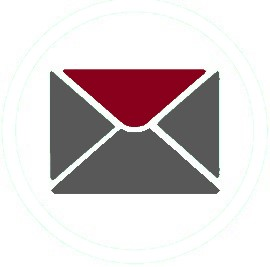
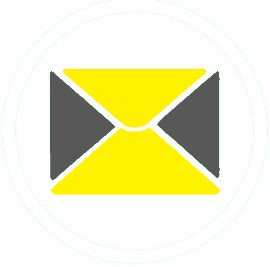
refined message function by adding indicator for student

Changed region(s): [[0.1778, 0.2397, 0.8296, 0.7491]]

diff --git a/SRC/src/yatuedx/root/assets/js/pages/jsClassRoomTeacher.js b/SRC/src/yatuedx/root/assets/js/pages/jsClassRoomTeacher.js
@@ -46,8 +46,8 @@ const TA_STUDENT_CONSOLE_PREFIX = "yt_stdf_inpt_ta_for_";
 const TA_STUDENT_CONSOLE_CONTAINER_PREFIX = "yt_stdt_inpt_ta_ctnr_div_for_";
 const BTN_CONSOLE_CLOSE_PREFIX = 'yt_btn_close_student_board';
 
-const CSS_STUDENT_COMM_NO_TEXT = 'student-input-board-button-notext';
-const CSS_STUDENT_COMM_WITH_TEXT = 'student-input-board-button-withtext';
+const CSS_STUDENT_COMM_NO_TEXT = 'btn-mail-box-dimention-teacher';
+const CSS_STUDENT_COMM_WITH_TEXT = 'btn-mail-box-with-msg';
 const CSS_STUDENT_CONSOLE_HIDE_BTN = 'student-input-board-button-close';
 
 const STUDENT_TOGGLE_BUTTON_MAX = "Code";
@@ -195,7 +195,9 @@ class JSClassRoomTeacher extends ProgrammingClassCommandUI {
 	/**
 		Handle mouse up event by getting the text selection and pass the selection info to peers
 	**/
-	handleMouseUp() {
+	handleMouseUp(e) {
+		e.preventDefault(); 
+		e.stopPropagation();
 		const {begin, end} = this.getSelection();
 		if (typeof(begin) != "undefined" && typeof(end) != "undefined" && begin != end) {
 			this.#displayBoardTeacher.setSelection(begin, end);
@@ -284,12 +286,10 @@ class JSClassRoomTeacher extends ProgrammingClassCommandUI {
 	toggleStudentButtonInner(selector, hasMsg) {		
 		// toggle button style by CSS toggle
 		if (hasMsg) {
-			$(selector).removeClass(CSS_STUDENT_COMM_NO_TEXT);
 			$(selector).addClass(CSS_STUDENT_COMM_WITH_TEXT);
 		}
 		else {
-			$(selector).removeClass(CSS_STUDENT_COMM_NO_TEXT);
-			$(selector).addClass(CSS_STUDENT_COMM_WITH_TEXT);
+			$(selector).removeClass(CSS_STUDENT_COMM_WITH_TEXT);
 		}
 	}
 	
@@ -298,11 +298,19 @@ class JSClassRoomTeacher extends ProgrammingClassCommandUI {
 	 **/
 	showStudentConsole(e) {
 		e.preventDefault(); 
+		e.stopPropagation();
+		
 		// get student name
 		const student = StringUtil.getIdStrFromBtnId(e.target.id);
 		// get student console Id
 		const containerSelector = this.getStudentConsoleContainerIdSelector(student);
+		const btnSelector = '#' + e.target.id;
+		
+		// show code console
 		this.showContainer(containerSelector);
+		
+		// make message btn non-flashing
+		this.toggleStudentButtonInner(btnSelector, false); 
 	}
 	
 	/**
@@ -310,11 +318,18 @@ class JSClassRoomTeacher extends ProgrammingClassCommandUI {
 	 **/
 	showStudentMessageContainer(e) {
 		e.preventDefault(); 
+		e.stopPropagation();
+		
 		// get student name
 		const student = StringUtil.getIdStrFromBtnId(e.target.id);
+		const btnSelector = '#' + e.target.id;
+		
 		// get student console Id
 		const containerSelector = this.getStudentMessageContainerIdSelector(student);
 		this.showContainer(containerSelector);
+		
+		// make message btn non-flashing
+		this.toggleStudentButtonInner(btnSelector, false);
 	}
 	
 	/**
@@ -446,9 +461,18 @@ class JSClassRoomTeacher extends ProgrammingClassCommandUI {
 	
 	sendMessageToStudent(e) {
 		e.preventDefault(); 
-		const student = StringUtil.getIdStrFromBtnId(e.target.id);
-		const msgText = $(this.getTeacherMessageTaIdSelector(student)).val();
-		this.#displayBoardTeacher.sendPrivateMsg(msgText, student);
+		e.stopPropagation();
+		
+		// Not sure why, but this event is also triggered when message text area is clicked
+		// We must prevent the message sending when text area is clicked.
+		if (e.target.id && 
+			e.target.id.startsWith(this.getStudentMessageSendBtnId(""))) {
+			const student = StringUtil.getIdStrFromBtnId(e.target.id);
+			const msgText = $(this.getTeacherMessageTaIdSelector(student)).val();
+			if (this.#displayBoardTeacher.sendPrivateMsg(msgText, student)) {
+				$(this.getTeacherMessageTaIdSelector(student)).val('');
+			}
+		}
 	}
 	
 	/**
@@ -525,15 +549,6 @@ class JSClassRoomTeacher extends ProgrammingClassCommandUI {
 		e.preventDefault();
 		const srcTxt = $("#ta_white_board").val();
 		this.runJSCode_prv(srcTxt);
-	}
-	
-	/*
-		Send message to the selected user
-	 */
-	handleMsgSend(e) {
-		const targetUser = $(this.msgReceiverDropdown).text();	
-		const msg = $(this.resultConsoleControl).val();
-		this.#displayBoardTeacher.sendPrivateMsg(msg, targetUser);
 	}
 	
 	/*

diff --git a/SRC/src/yatuedx/root/assets/css/class_room.css b/SRC/src/yatuedx/root/assets/css/class_room.css
@@ -166,8 +166,8 @@
 	height: 20vw;
 	overflow-y: auto;    						/* Trigger vertical scroll    */
 	z-index: 99 !important;						/* ON TOP */
-	background: #0ABAB5;
-	color: #FFFFFF;
+	background: #ccffff;
+	color: #000000;
 	resize: none;
     outline: none;
 	border:outset 4px orange;	
@@ -181,8 +181,8 @@
 	height: 10vw;
 	overflow-y: auto;    						/* Trigger vertical scroll    */
 	z-index: 99 !important;						/* ON TOP */
-	background: #b1b3b2;
-	color: #FFFFFF;
+	background: #ccffff;
+	color: #000000;
 	resize: none;
     outline: none;	
 	border:outset 4px orange;
@@ -192,7 +192,7 @@
 	position: absolute;
 	margin-top: 1px;
     margin-right: 2px;
-	top: 3.2vw;
+	top: 4.2vw;
 	left: 50vw;
 	z-index: 100 !important;	
     width: 5vw;
@@ -214,36 +214,21 @@
 
 .student-input-board-button-close-size {
 	position: absolute;
-	top: 3.2vw; 
+	top: 4.2vw; 
 	left: 55.8vw; 
 }
 
 .student-input-board-button-close-size2 {
 	position: absolute;
-	top: 4.8vw; 
+	top: 6.0vw; 
 	left: 55.8vw; 
-}
-
-.btn-mail-box-dimention {
-	background-size: 2.7vw 2.7vw;
-    width: 2.7vw;  
-    height: 2.7vw;
-}
-
-
-.btn-mail-box-no-msg {
-	background-image: url('../images/dynamic/msg_box_no_msg.jpg');
-}
-
-.btn-mail-box-with-msg {
-	background-image: url('../images/dynamic/msg_box_with_msg.jpg');
 }
 
 .student-msg-board-button-send-msg {
 	position: absolute;
 	margin-top: 1px;
     margin-right: 2px;
-	top: 25vw;
+	top: 28vw;
 	left: 53.7vw;
 	z-index: 100 !important;	
     width: 90px;
@@ -254,22 +239,59 @@
 	line-height: 50%
 }
 
-.student-input-board-button-notext {
-    width: 90px;
-    height: 30px;
-    border: 1px solid #ddd;
-	color:  white;
-    background-color:#0a0a23;
-	line-height: 50%
+.btn-mail-box-dimention {
+	background-color: #1c87c9;
+	-webkit-border-radius: 60px;
+	border-radius: 60px;
+	border: none;
+	color: #eeeeee;
+	cursor: pointer;
+	display: inline-block;
+	font-family: sans-serif;
+	font-size: 20px;
+	padding: 5px 15px;
+	text-align: center;
+	text-decoration: none;
 }
 
-.student-input-board-button-withtext {
-	width: 90px;
-    height: 30px;
-    border: 1px solid #ddd;
-	color:  #000000;
-    background-color:#00ff00;
-	line-height: 50%
+.btn-mail-box-dimention-teacher {
+	background-color: #1c87c9;
+	-webkit-border-radius: 10px;
+	border-radius: 10px;
+	border: none;
+	color: #eeeeee;
+	cursor: pointer;
+	display: inline-block;
+	font-family: sans-serif;
+	font-size: 20px;
+	padding: 5px 15px;
+	text-align: center;
+	text-decoration: none;
+	width: 100px;
+    height: 40px;
+	margin-top: 4px
+}
+
+@keyframes glowing {
+	0% {
+	  background-color: #ff0000;
+	  box-shadow: 0 0 5px #2ba805;
+	}
+	50% {
+	  background-color: #1c87c9;
+	  box-shadow: 0 0 20px #49e819;
+	}
+	100% {
+	  background-color: #1c87c9;
+	  box-shadow: 0 0 5px #2ba805;
+	}
+  }
+  
+.btn-mail-box-with-msg {
+	animation: glowing 1300ms infinite;
+}
+
+.btn-mail-box-no-msg {
 }
 
 .msg-board {

diff --git a/SRC/src/yatuedx/root/assets/js/component/studentCommCard.js b/SRC/src/yatuedx/root/assets/js/component/studentCommCard.js
@@ -1,7 +1,7 @@
 const STUDENT_BOARD_TEMPLATE = `
 <label>{lb}</lable>
 <div>
-<button class="btn btn-outline-primary translatable student-input-board-button-notext" id="{stdtgid}" title="Show Console" >Code</button>
+<button class="btn translatable btn-mail-box-dimention-teacher" id="{stdtgid}" title="Show Console" >Code</button>
 <div id="{console_ctnr_id}" style="display:none" class="student-input-board-container-extend">
 	<textarea id="{taid}" class="student-input-board-extend" spellcheck="false"></textarea>
 	<button class="btn student-input-board-button-close student-input-board-button-close-size" title="Close" ></button>
@@ -9,10 +9,10 @@ const STUDENT_BOARD_TEMPLATE = `
 </div>
 </div>
 <div>
-<button class="btn btn-outline-primary translatable student-input-board-button-notext" id="{stdt_msg_btn_id}" title="Show Messge Board" >Message</button>
+<button class="btn translatable btn-mail-box-dimention-teacher" id="{stdt_msg_btn_id}" title="Show Messge Board" >Message</button>
 <div id="{msg_ctnr_id}" style="display:none" class="student-input-board-container-extend">
-	<textarea id="{std_msg_ta_id}" class="student-msg-board-extend" spellcheck="true"></textarea>
-	<textarea id="{tchr_msg_ta_id}" class="teacher-msg-board-extend" spellcheck="true"></textarea>
+	<textarea id="{std_msg_ta_id}" class="student-msg-board-extend" spellcheck="true">Past messages:</textarea>
+	<textarea id="{tchr_msg_ta_id}" class="teacher-msg-board-extend" spellcheck="true" placeholder="Enter your message"></textarea>
     <button class="btn btn-outline-primary translatable student-msg-board-button-send-msg" id="{msg_send_btn_id}" >Send</button>
 	<button class="btn student-input-board-button-close student-input-board-button-close-size2" title="Close" ></button>
 </div>

diff --git a/SRC/src/yatuedx/root/assets/js/pages/jsClassRoom.js b/SRC/src/yatuedx/root/assets/js/pages/jsClassRoom.js
@@ -238,10 +238,10 @@ class JSClassRoom extends ProgrammingClassCommandUI {
 		Receive message from a peer by displaying the text in the message tab.
 	 **/
 	receiveMsgFrom(cmdObject) {
-		this.displayMessage(cmdObject.data[0], cmdObject.sender);
-		
-		// make message indicator green
-		this.toggleMessageIndicator();
+		if (this.displayMessage(cmdObject.data[0], cmdObject.sender)) {
+			// make message indicator green
+			this.toggleMessageIndicator();
+		}
 	}
 	
 	/**
@@ -270,17 +270,18 @@ class JSClassRoom extends ProgrammingClassCommandUI {
 		selector.prop('title', 'your have new messages');
 	}
 	
+	/**
+		Display messages from peers on message board
+	**/
 	displayMessage(msgTxt, sender) {
 		if (msgTxt) {
 			// prepend to the old messages
 			const displayMsg = `from ${sender}: ${msgTxt}\n`;
-			const currentMsgs = $(this.msgTextArea).val();
-			const newMessages = displayMsg + currentMsgs;
-			$(this.msgTextArea).val(newMessages);
-			// switch tab to message:
-			const ti = TAB_LIST.findIndex(t => t.tab == YT_TB_MSG_CONSOLE);
-			this.prv_toggleTab(ti);
+			$(this.msgTextArea).val(displayMsg);
+			return true;
 		}
+		
+		return false;
 	}
 	
 	/**

diff --git a/SRC/src/yatuedx/root/assets/js/component/communicationSpace.js b/SRC/src/yatuedx/root/assets/js/component/communicationSpace.js
@@ -300,7 +300,11 @@ class CommunicationSpace {
 		Send message to a user
 	**/
 	sendMessageToUser(user, msgStr) {
-		this.#commClient.sendPrivateMsg(user, msgStr);
+		if (msgStr) {
+			this.#commClient.sendPrivateMsg(user, msgStr);
+			return true;
+		}
+		return false;
 	}
 	
 	/**	
@@ -349,10 +353,15 @@ class CommunicationSpace {
 		Send private message to my peer. 
 	 **/
 	sendPrivateMsg(msg, targetUser) {
-		const cmd = new OutgoingCommand(PTCC_COMMANDS.PTC_PRIVATE_MSG, 
-										msg);	
-		this.sendMessageToUser(targetUser, cmd.str);
-		console.log('send private msg:' + msg + ' to: ' + targetUser);
+		if (msg) {
+			const cmd = new OutgoingCommand(PTCC_COMMANDS.PTC_PRIVATE_MSG, 
+											msg);	
+			this.sendMessageToUser(targetUser, cmd.str);
+			console.log('send private msg:' + msg + ' to: ' + targetUser);
+			return true;
+		}
+		
+		return false;
 	}
 	
 	/**	

diff --git a/SRC/src/yatuedx/root/class-room.html b/SRC/src/yatuedx/root/class-room.html
@@ -27,7 +27,7 @@
                 <div class="collapse navbar-collapse" id="unplugNavbar">
                     <ul class="navbar-nav ml-auto">
 						<li class="nav-item active">
-                            <button id="yt_btn_msg_indicator" class="btn btn-mail-box-dimention btn-mail-box-no-msg" title="no message"></button>
+                            <button id="yt_btn_msg_indicator" class="btn btn-mail-box-dimention btn-mail-box-no-msg" title="no message">Message</button>
                         </li>
                     </ul>
                 </div>
